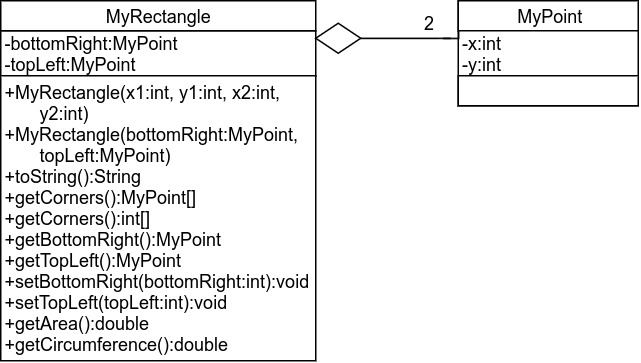
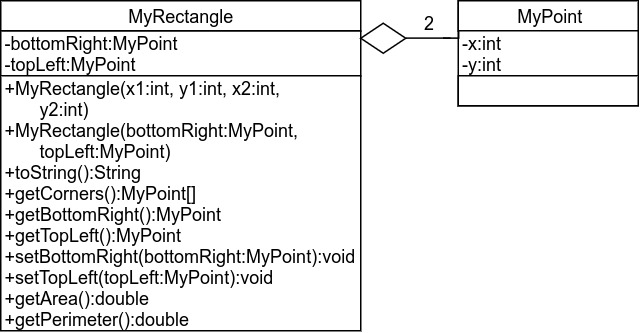
Relation Excercise

Changed region(s): [[0.0, 0.03, 0.9984, 1.0], [0.7176, 0.2703, 0.9984, 0.3303], [0.468, 0.0, 0.5616, 0.03]]

diff --git a/src/Relations/MyRectangle.java b/src/Relations/MyRectangle.java
@@ -1,0 +1,56 @@
+package Relations;
+
+/**
+ * Created by anton on 2017-11-08.
+ */
+public class MyRectangle {
+    private MyPoint bottomRight;
+    private MyPoint topLeft;
+
+    public MyRectangle() {}
+
+    public MyRectangle(MyPoint bottomRight, MyPoint topLeft) {
+        this.bottomRight = bottomRight;
+        this.topLeft = topLeft;
+    }
+
+    public MyRectangle(int x1, int y1, int x2, int y2) {
+        this.bottomRight = new MyPoint(x1, y1);
+        this.topLeft = new MyPoint(x2, y2);
+    }
+
+    public String toString() {
+        return new String("MyRectangle[bottomRight=" + bottomRight.toString() + ",topLeft=" + topLeft.toString() + "]");
+    }
+
+    public MyPoint[] getCorners() {
+        return new MyPoint[] {bottomRight, topLeft};
+    }
+
+    public MyPoint getBottomRight() {
+        return bottomRight;
+    }
+
+    public MyPoint getTopLeft() {
+        return topLeft;
+    }
+
+    public void setBottomRight(MyPoint bottomRight) {
+        this.bottomRight = bottomRight;
+    }
+
+    public void setTopLeft(MyPoint topLeft) {
+        this.topLeft = topLeft;
+    }
+
+    public double getArea() {
+        return Math.abs(topLeft.getX() - bottomRight.getX()) * Math.abs(topLeft.getY() - bottomRight.getY());
+    }
+
+    public double getPerimeter() {
+        double a = Math.abs(topLeft.getX() - bottomRight.getX());
+        double b = Math.abs(topLeft.getY() - bottomRight.getY());
+
+        return 2*(a+b);
+    }
+}
